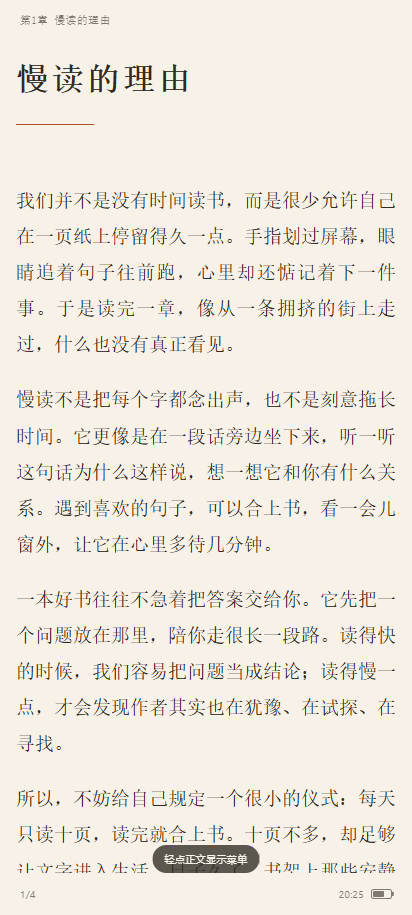
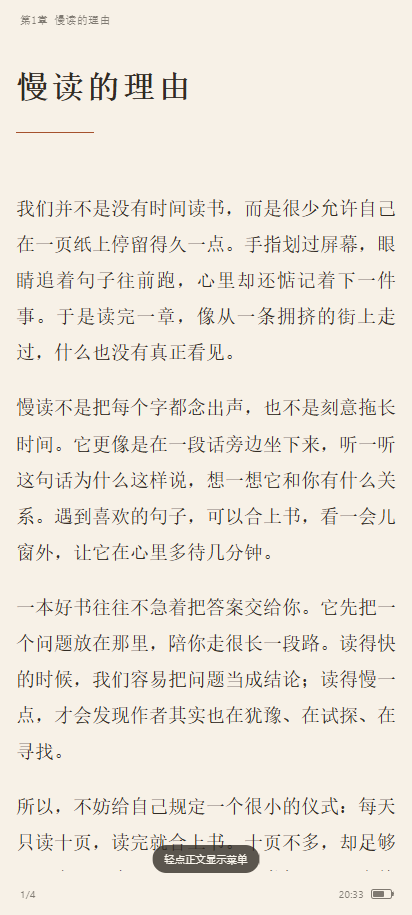
Account for status-bar inset in HUD margin for 0.33.10

diff --git a/site/index.html b/site/index.html
@@ -41,20 +41,20 @@
             <a
               class="button"
               id="androidGithubButton"
-              href="https://github.com/Langlijun666/moyue-android/releases/download/android-v0.33.3/Moyue.Android_0.33.9_arm64.apk"
+              href="https://github.com/Langlijun666/moyue-android/releases/download/android-v0.33.3/Moyue.Android_0.33.10_arm64.apk"
               target="_blank"
               rel="noreferrer"
             >
               <span class="button__icon">↓</span>
               <span>
                 <strong>下载 Android APK</strong>
-                <small id="androidMeta">GitHub · v0.33.9 · arm64</small>
+                <small id="androidMeta">GitHub · v0.33.10 · arm64</small>
               </span>
             </a>
             <a
               class="button button--ghost"
               id="androidOssButton"
-              href="https://moyue-release-files.oss-cn-hangzhou.aliyuncs.com/updates/android/Moyue.Android_0.33.9_arm64.apk.zip"
+              href="https://moyue-release-files.oss-cn-hangzhou.aliyuncs.com/updates/android/Moyue.Android_0.33.10_arm64.apk.zip"
               target="_blank"
               rel="noreferrer"
             >
@@ -75,7 +75,7 @@
 
         <div class="hero__phones" aria-hidden="true">
           <img class="phone phone--back" src="assets/shelf.png" alt="" />
-          <img class="phone phone--front" src="assets/reader.png?v=0.33.9" alt="" />
+          <img class="phone phone--front" src="assets/reader.png?v=0.33.10" alt="" />
         </div>
       </section>
 

diff --git a/src/styles.css b/src/styles.css
@@ -8240,8 +8240,8 @@ html[data-platform="android"] .android-only {
 }
 
 .reader--mobile .reader__stage {
-  padding-top: 56px;
-  padding-bottom: 42px;
+  padding-top: calc(env(safe-area-inset-top, 0px) + 64px);
+  padding-bottom: calc(env(safe-area-inset-bottom, 0px) + 44px);
 }
 
 .reader--mobile .reader-hud {

diff --git a/site/app.js b/site/app.js
@@ -1,6 +1,6 @@
 const OSS_BASE = "https://moyue-release-files.oss-cn-hangzhou.aliyuncs.com";
 const REPO_URL = "https://github.com/Langlijun666/moyue-android";
-const FALLBACK_VERSION = "0.33.9";
+const FALLBACK_VERSION = "0.33.10";
 
 function applyRelease(version, apkUrl, ossZipUrl, size) {
   const apk =

diff --git a/README.md b/README.md
@@ -13,9 +13,9 @@
 ## 下载
 
 - [GitHub Releases](https://github.com/Langlijun666/moyue-android/releases/latest)
-- OSS 镜像（ZIP）：`https://moyue-release-files.oss-cn-hangzhou.aliyuncs.com/updates/android/Moyue.Android_0.33.9_arm64.apk.zip`
+- OSS 镜像（ZIP）：`https://moyue-release-files.oss-cn-hangzhou.aliyuncs.com/updates/android/Moyue.Android_0.33.10_arm64.apk.zip`
 
-当前 **v0.33.9 · arm64 · Android 7.0+**，debug 签名测试包，需要允许「安装未知应用」。调试包适合试用，不适合直接上架。
+当前 **v0.33.10 · arm64 · Android 7.0+**，debug 签名测试包，需要允许「安装未知应用」。调试包适合试用，不适合直接上架。
 
 > 阿里云 OSS 默认域名不允许直接公开分发 `.apk`，所以 OSS 渠道提供的是 APK 压缩包；GitHub 渠道可以直接下载 APK。
 
